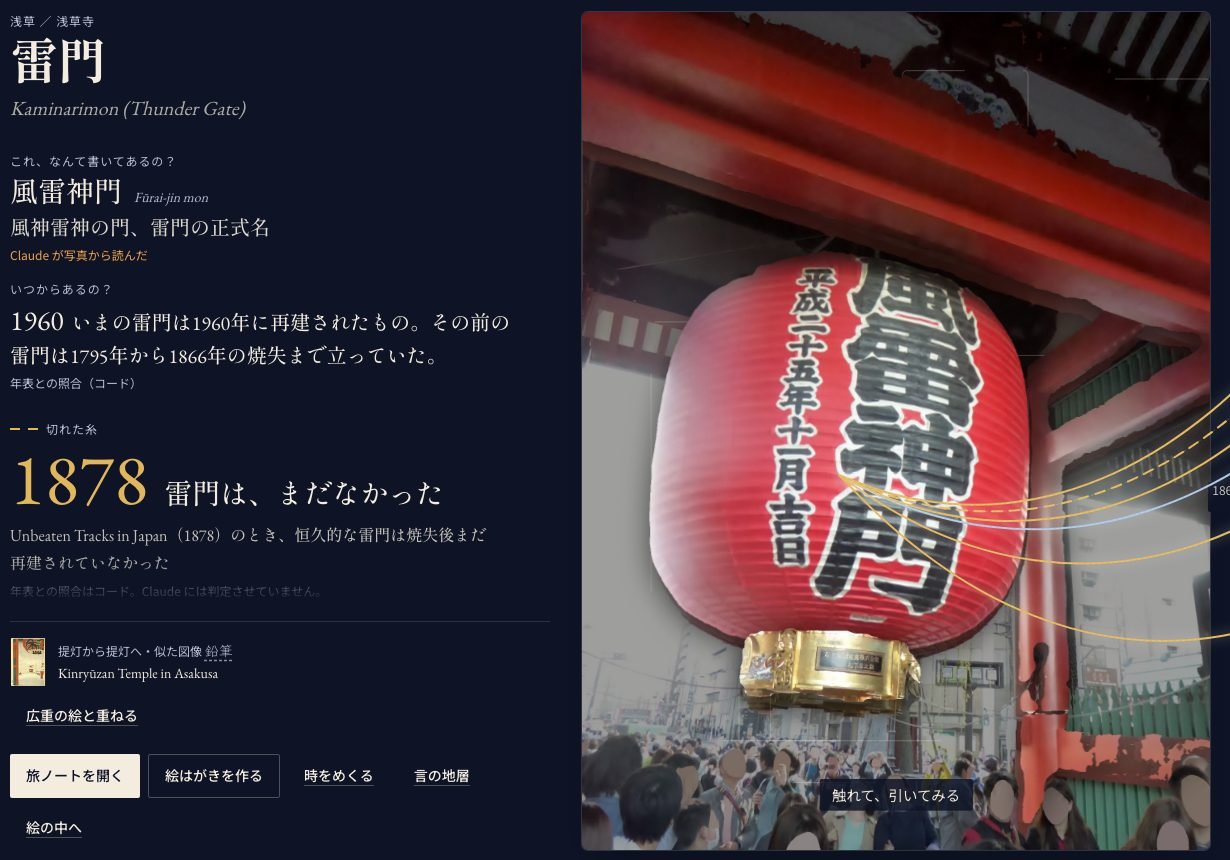
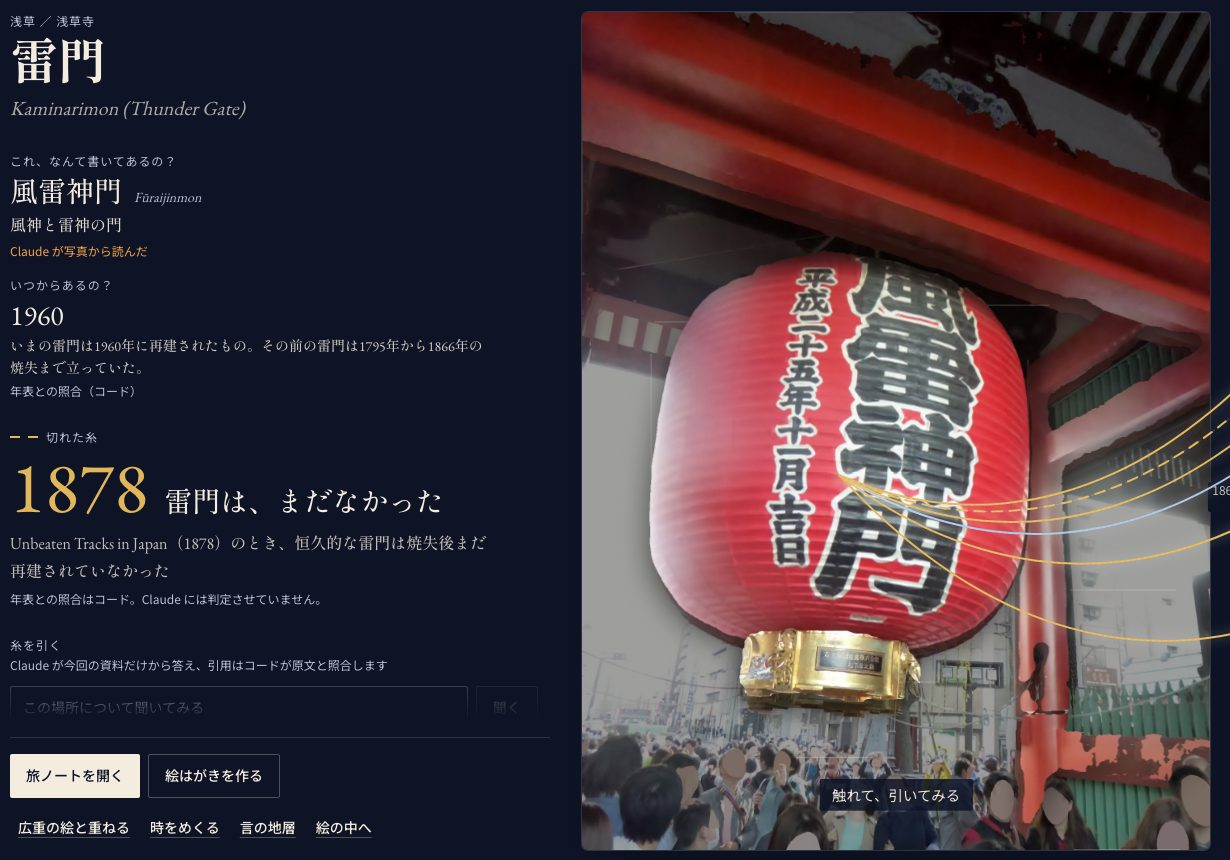
Demo composition for a video-judged entry: the friend's two questions as the spine, who/what/how in the first 12 s, the 1878 reveal paying off the opening question, each criterion mapped to a beat, timings from the recording; the landing images from the final recording; time-shot checks the disagree

diff --git a/scripts/time-shot.ts b/scripts/time-shot.ts
@@ -39,6 +39,9 @@ try {
   };
   await go(1856);
   await shot("1-1856");
+  await go(1866);
+  await shot("1b-1866-conflict");
+  if ((await panel.getByTestId("time-conflict").count()) === 0) fails.push("1866: the disagreeing sources are not shown");
   await go(1878, 320);
   await shot("2-1878-burning");
   await page.waitForTimeout(700);

diff --git a/docs/demo-script.md b/docs/demo-script.md
@@ -1,31 +1,48 @@
-# TSUMUGI デモ台本（3分・英語UI、ナレーションは日本語）
+# TSUMUGI デモ動画の構成（3分・審査は動画）
 
-> 時間と空間を超えて、Claude が世界を紡ぐ。
-> 数字は手で書かない：本番の数字は舞台裏と README（Performance・評価）から読み上げる。
+> 撮るだけで、目の前の日本が、意味と物語になる。
 
-## 準備
+## 審査基準から決めたこと
 
-- `.env`：`CLAUDE_FAST=1`（本番だけ）、`DEMO_REPLAY_ID`＝当日朝に録った探索（ライブが失敗したら「記録を再生」）。
-- 推論サーバー（SAM 3 / 深度 / SigLIP）を起動し、`/api/warm` を一度叩く（landing が自動で叩く）。
-- 実機：iPhone（振動・音）、発表用 PC（`/present`、投影）。音量は小さめ、ミュートは舞台の右上。
-- 予行：`scripts/rehearse.ts`、`scripts/loom-check.ts <replay> --lang en`。
+| 基準 | この動画で見せること | 場面 |
+| --- | --- | --- |
+| インパクト 30% | 作者自身の体験から始まる。困っている人は「日本が好きな外国人と、案内する日本人」。ハッカソン後も現地で使い続ける形（どこでも読みとガイド、旅ノート、絵はがき） | 0:00, 2:30, 2:50 |
+| デモ 25% | 冒頭12秒で「誰の・どんな課題を・どう解くか」。前提知識なしで、操作の流れだけで価値が分かる。冒頭で投げた問い（いつからあるの？）を途中で回収し、最後まで見たくなる | 0:00–1:25 |
+| Claude の活用 25% | 画像を読む／文化を解説する／足りない観点を判断して探し直す／ネイティブ引用で答える、をコードの判定と分けて見せる。Claude Code（計画・サブエージェント・スキル・フック）は実物を見せる | 0:20, 1:55, 2:35 |
+| 深さと実行力 20% | 年代はコードが年表で判定、引用は原文と照合、資料にないことは「書かれていません」。評価の数字（Batch API）。食い違う資料は両方を出す | 1:00, 2:35 |
+
+物語の背骨は一本だけにする：**友人の二つの問い**。「これ、なんて書いてあるの？」「いつからあるの？」。二つ目の答えが「150年前、ここに門はなかった」という驚きにつながる。
 
 ## 台本
 
-| 時間 | 画面と操作 | 言うこと（要旨） | 見せるもの（審査基準） |
+秒数の目安は、デモ録画（`DEMO_REPLAY_ID`）の実測に合わせてある。fast mode のライブでは、写真の文字が約3秒で流れ始め、場所が約8秒、物語が約13秒、完了が約18秒（ブラウザで計測）。
+
+| 時間 | 画面 | 操作 | ナレーション（要旨） |
 | --- | --- | --- | --- |
-| 0:00–0:15 | 雷門の大提灯の前で、英語 UI のまま「カメラで撮る」。シャッターは提灯の色 | 「日本が好きな旅行者が、この字の意味も、150年前ここに何があったかも知りたい」 | フック（インパクト） |
-| 0:15–0:40 | Claude が写真の文字を読む（読みと意味が流れ込む）。SAM 3 が提灯と門を切り抜き、光が輪郭をなでて浮き上がる | 「Claude が読み、手元の GPU が物を切り抜く」 | Claude の役割が見える（Claude） |
-| 0:40–1:05 | 提灯に触れる：震えて、糸を弾く音と振動。左へ絹の糸（ガイド：見どころ・意味・やってみる、雷＝雨＋田）、右へ墨の糸（資料）が年の軸を通って結ばれる | 「触れると、糸がつながる。左は Claude の解説、右は原文に裏付けられた糸。混ぜない」 | 触れる体験・正直さ（インパクト） |
-| 1:05–1:35 | **時をめくる**（舞台のつまみ、またはパネルの「時を流す」：門が焼失の年に燃え落ち、仮設の時代は破線、再建の年に立ち上がる）：年のつまみを 1878 へ。写真が夜に沈み、門は影になり、1878 の糸が切れて落ちる。「1878年、雷門はまだなかった」。1856 で広重の絵が重なり、1960 で門が戻り糸が結び直る | 「バードが来た年、門は焼けて、まだなかった。照合したのは Claude ではなくコード」 | 一番の見せ場（インパクト・深さ） |
-| 1:35–2:00 | **糸を引く**：ガイドの質問（または自分の質問）を押す。Claude が今回の資料だけから答え、引用はコードが原文と照合。新しい墨の糸が根拠カードへ。資料にない質問には「資料には書かれていません」 | 「答えは引用つき。照合できない文は薄く、何もなければ言わない」 | 双方向・ネイティブ引用（Claude） |
-| 1:50–2:00 | **言の地層**：広重の絵の上に呼び名の地層。バードの「Ni-ô」に触れると、光は頭上の雷門ではなく雪の奥の赤い仁王門に降りる。「名をたどる」で手前から奥へ | 「彼女が見た“赤い門”は、雷門ではなかった」 | 言葉と場所のずれ（インパクト・深さ） |
-| 2:00–2:20 | **海を越える糸**：広重の版画はニューヨーク（The Met）、バードはヨークシャー、シドモアはアイオワ。絵はがきを作る（切り抜き・提灯の字の朱印・確かめた一文） | 「この場所の物語は、海を越えて保管されている。持ち帰れる一枚に」 | 持ち帰り（インパクト） |
-| 2:20–2:45 | 舞台裏：Claude の呼び出し（並列）、コードの検査、Neo4j に書いた根拠グラフ（資料→根拠→主張→年・場所）。`/notes` の旅の糸：浅草と上野が同じ資料で結ばれる | 「Claude が分解し、足りない観点を判断して探し直し、コードが確かめ、グラフに残す」 | Claude の使い方・深さ |
-| 2:45–3:00 | 評価（Batch API、方式A〜D、時の判定、引用の一致、捏造引用の拒否）とセキュリティ（写真の中の指示に乗っ取られない）。締め | 「TSUMUGI は、つなぐ前に、時代・場所・言葉が本当につながるかを確かめます」 | 深さと実行力 |
+| 0:00–0:12 | 入口の「はじまり」 | 静止 | 「浅草で、外国人の友人に聞かれました。『これ、なんて書いてあるの？　いつからあるの？』——答えられませんでした。」 |
+| 0:12–0:20 | 入口の見出し | 「雷門で試す」を押す（または実機で「カメラで撮る」） | 「TSUMUGI は、撮るだけで、目の前の日本を意味と物語にします。」 |
+| 0:20–0:35 | 舞台：最初の答え | 待つだけ | 「Claude が写真の字を読みます。風雷神門——風神と雷神の門。そして、いつからあるのか。いまの門は1960年のもの。……では、150年前は？」（問いを残す） |
+| 0:35–0:55 | 舞台：触れる | 提灯に触れる → タップ | 「触れると、震えて、糸が鳴る。見どころ、意味、やってみること。雷は、雨と田。Claude の解説と、資料の糸は、線の種類で分けています。」 |
+| 0:55–1:10 | 舞台：年のつまみ | つまみを1878へ | 「1878年。写真が夜に沈み、門は影になり、その年の糸が切れる。イザベラ・バードが歩いた浅草に、雷門はなかった。判定したのは Claude ではなく、年表との照合です。」（問いの回収） |
+| 1:10–1:25 | 時をめくる（パネル） | 「時を流す」 | 「1866年、門は燃えた——資料が食い違うときは、両方を出します。1960年、門は立ち上がる。」 |
+| 1:25–1:40 | 言の地層 | バードの「Ni-ô」に触れる | 「バードが見た“赤い門”は、雷門ではなく、雪の奥の仁王門でした。」 |
+| 1:40–1:55 | 絵の中へ | 版画の中へ、マウスで傾ける | 「広重の1856年。版画が奥行きを持ち、雪が降る。」 |
+| 1:55–2:10 | 糸を引く | 候補の質問を押す／自分で聞く | 「質問には、今回の資料だけで答えます。引用は原文と照合し、資料にないことは『書かれていません』。」 |
+| 2:10–2:25 | 絵はがき・海を越える糸 | 「絵はがきを作る」 | 「確かめた一文を、絵はがきに。資料は、ニューヨークのメトロポリタン美術館や、英国ヨークシャー生まれの旅行者から届いています。」 |
+| 2:25–2:35 | どこでも（金閣寺） | 自分の写真を送る | 「資料のない場所でも、字の読みとガイドは使えます。歴史は、確かめられる場所でだけ語ります。」 |
+| 2:35–2:50 | しくみ・舞台裏 | `/how` → 舞台裏の根拠グラフ | 「Claude に任せるのは読む・解説する・書くこと。はい／いいえはコードが決める。評価は Batch API で、引用の原文一致はこの数字。開発は Claude Code で——計画、サブエージェントの批評、検証のスキル、デザイン規則のフック。」 |
+| 2:50–3:00 | 入口へ戻る | 静止 | 「あの日の質問に、いまは答えられます。TSUMUGI。」 |
+
+## 撮影の手順
+
+- 画面：1920×1080。動画では文字が小さく見えるので、舞台は `?present=1`（プレゼンモード）で撮る。4K で撮る場合もそのまま比例して拡大される。
+- 事前：推論サーバーを起動し、入口を一度開いて温める（モデルは30分保持）。`CLAUDE_FAST=1` はライブ撮影のときだけ。
+- 録画の再生：`/replay/<DEMO_REPLAY_ID>`（Claude の呼び出しなし、録画であることは画面に出る）。
+- 予行：`scripts/rehearse.ts`、`scripts/loom-check.ts <base> <replay> --lang en`、`scripts/time-shot.ts`、`scripts/names-shot.ts`、`scripts/space-shot.ts`。
+- 音：糸を弾く音は最初のタッチから鳴る。ナレーションと重ねるなら「音：切」。
 
 ## 失敗したとき
 
-- ライブが止まった：画面の「記録を再生する（録画）」。録画であることは画面に出る。
-- 推論サーバーが落ちた：切り抜きなしでも Claude の枠で触れられる（浮き上がりだけ無くなる）。
-- 音が出ない：最初のタッチまで鳴らない仕様。もう一度触れる。振動は Android と iOS 18 以降のみ。
+- ライブが止まった：「記録を再生する（録画）」。
+- 推論サーバーが落ちた：切り抜きなしでも Claude の枠で触れられる。3D は 2D 表示になる（「3Dで見る」で戻せる）。
+- 文字が小さい：プレゼンモード（P キー）。
